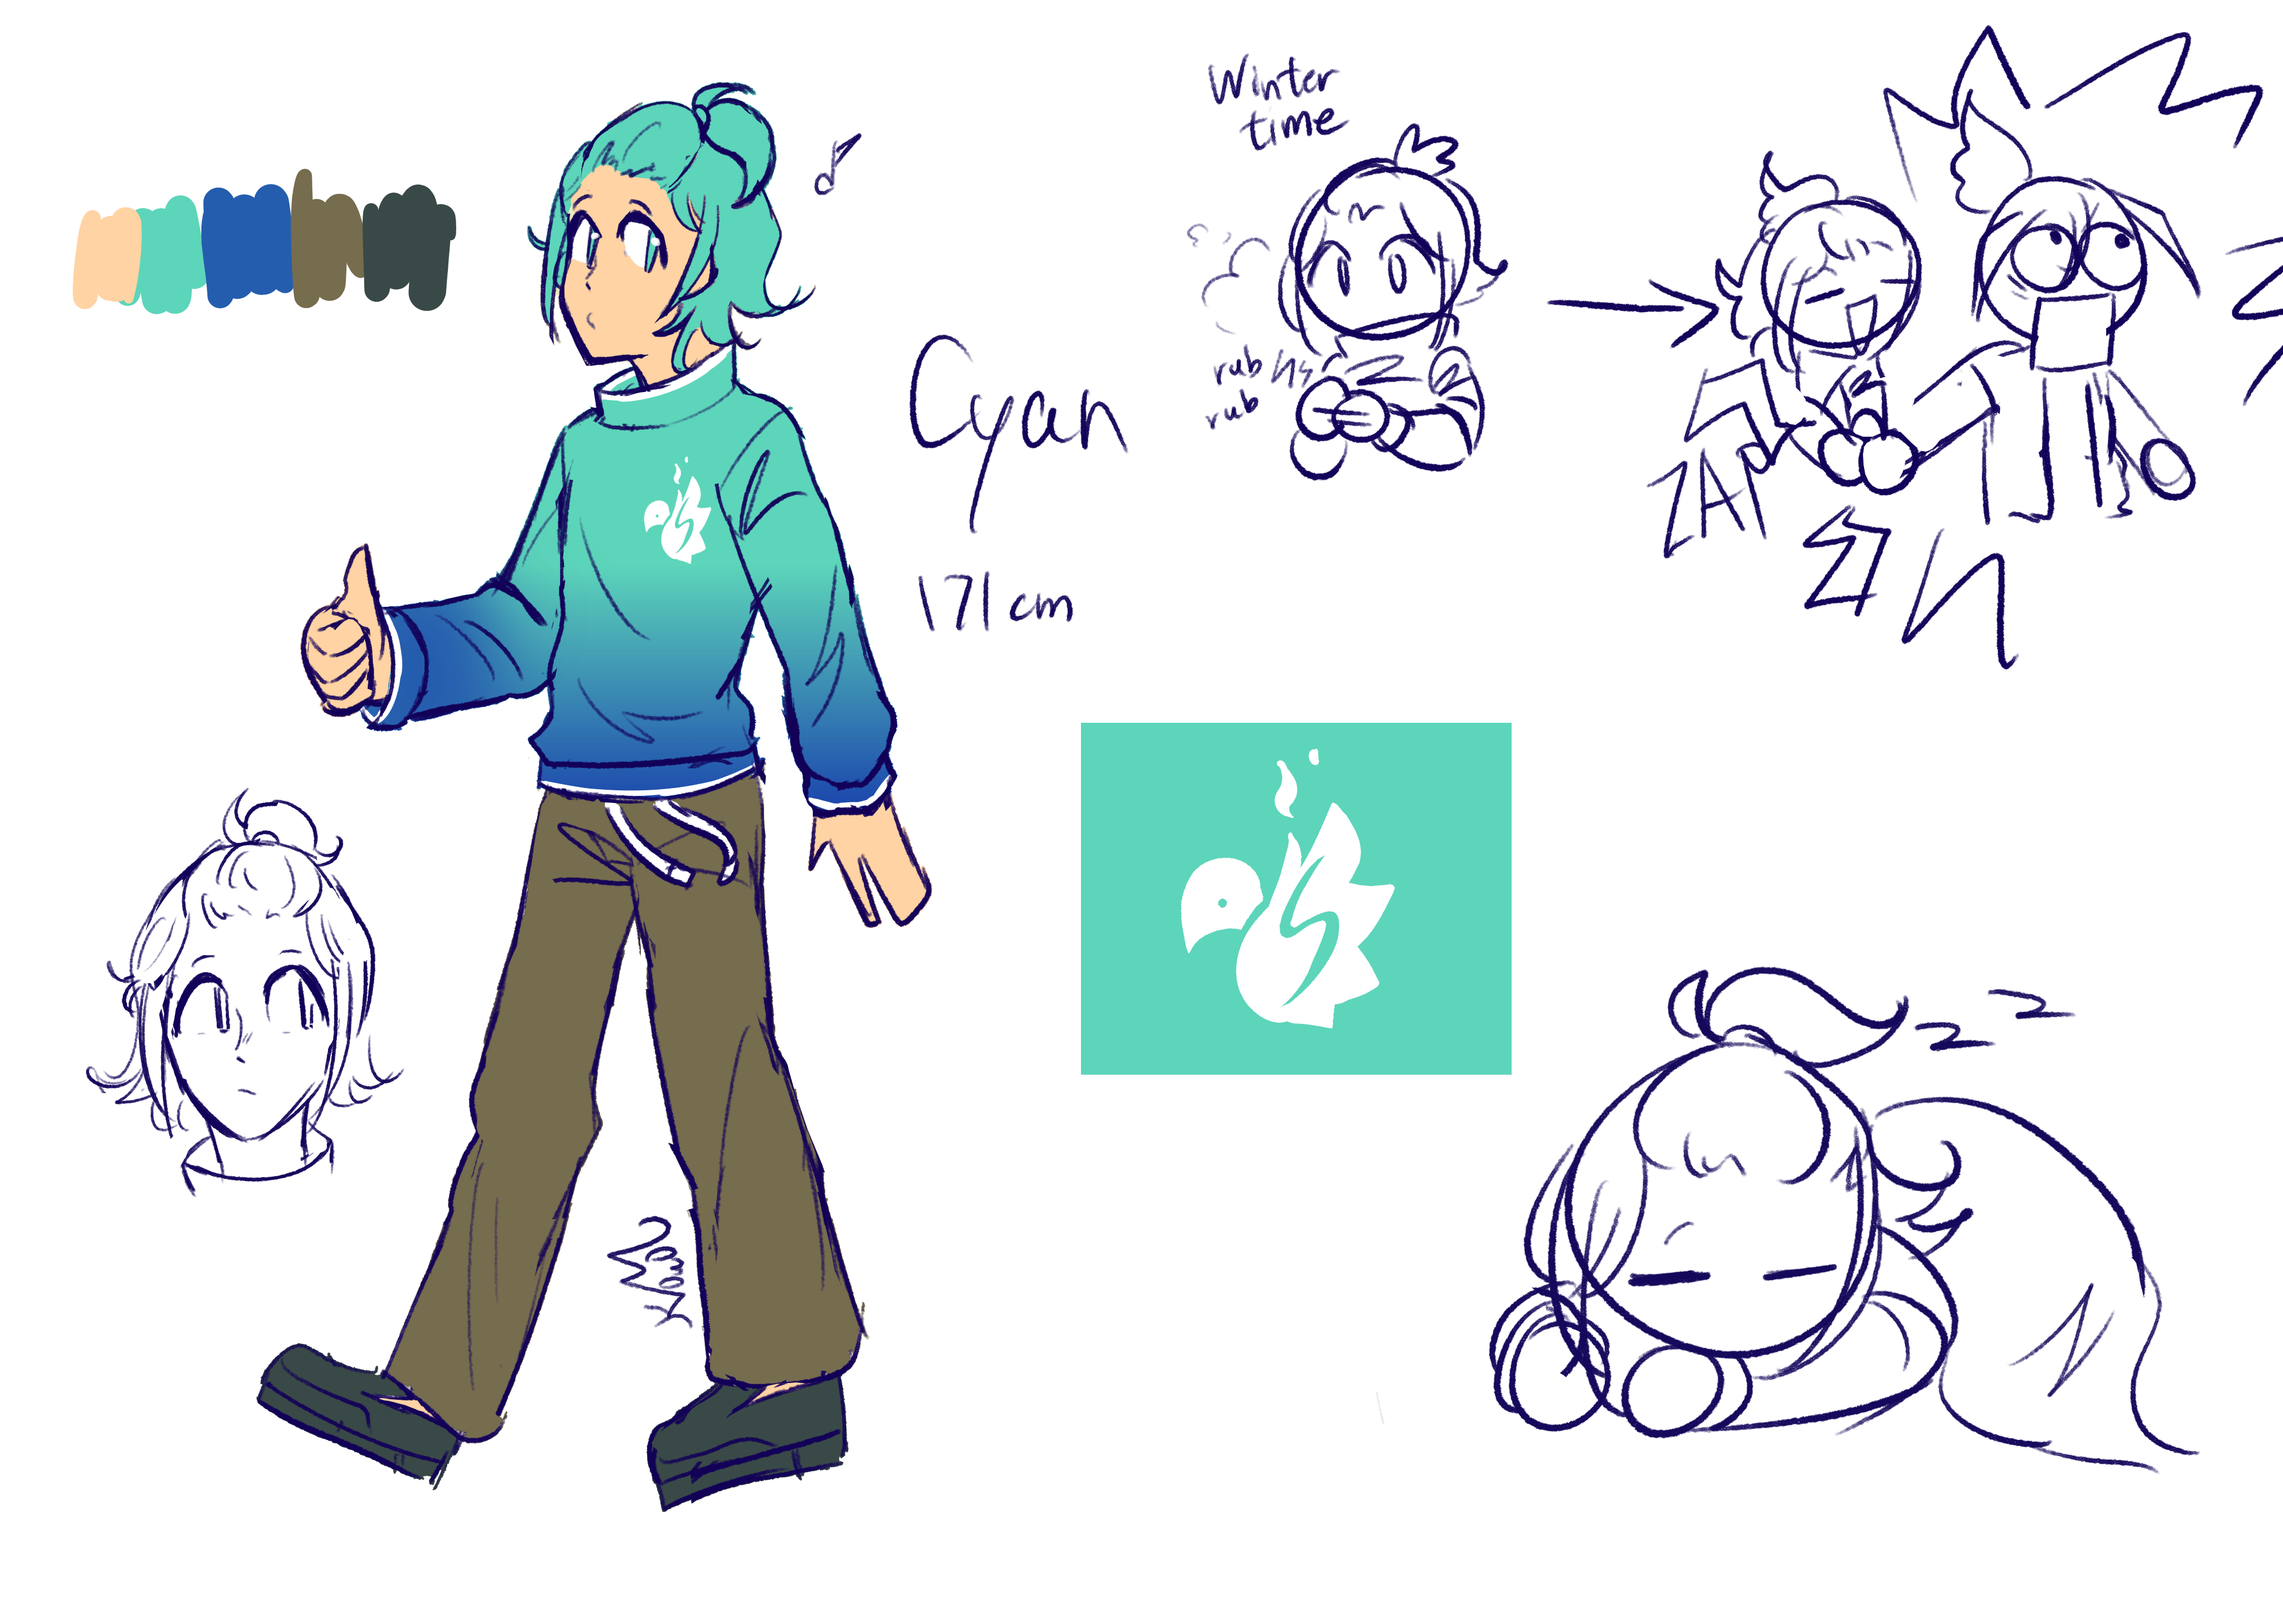
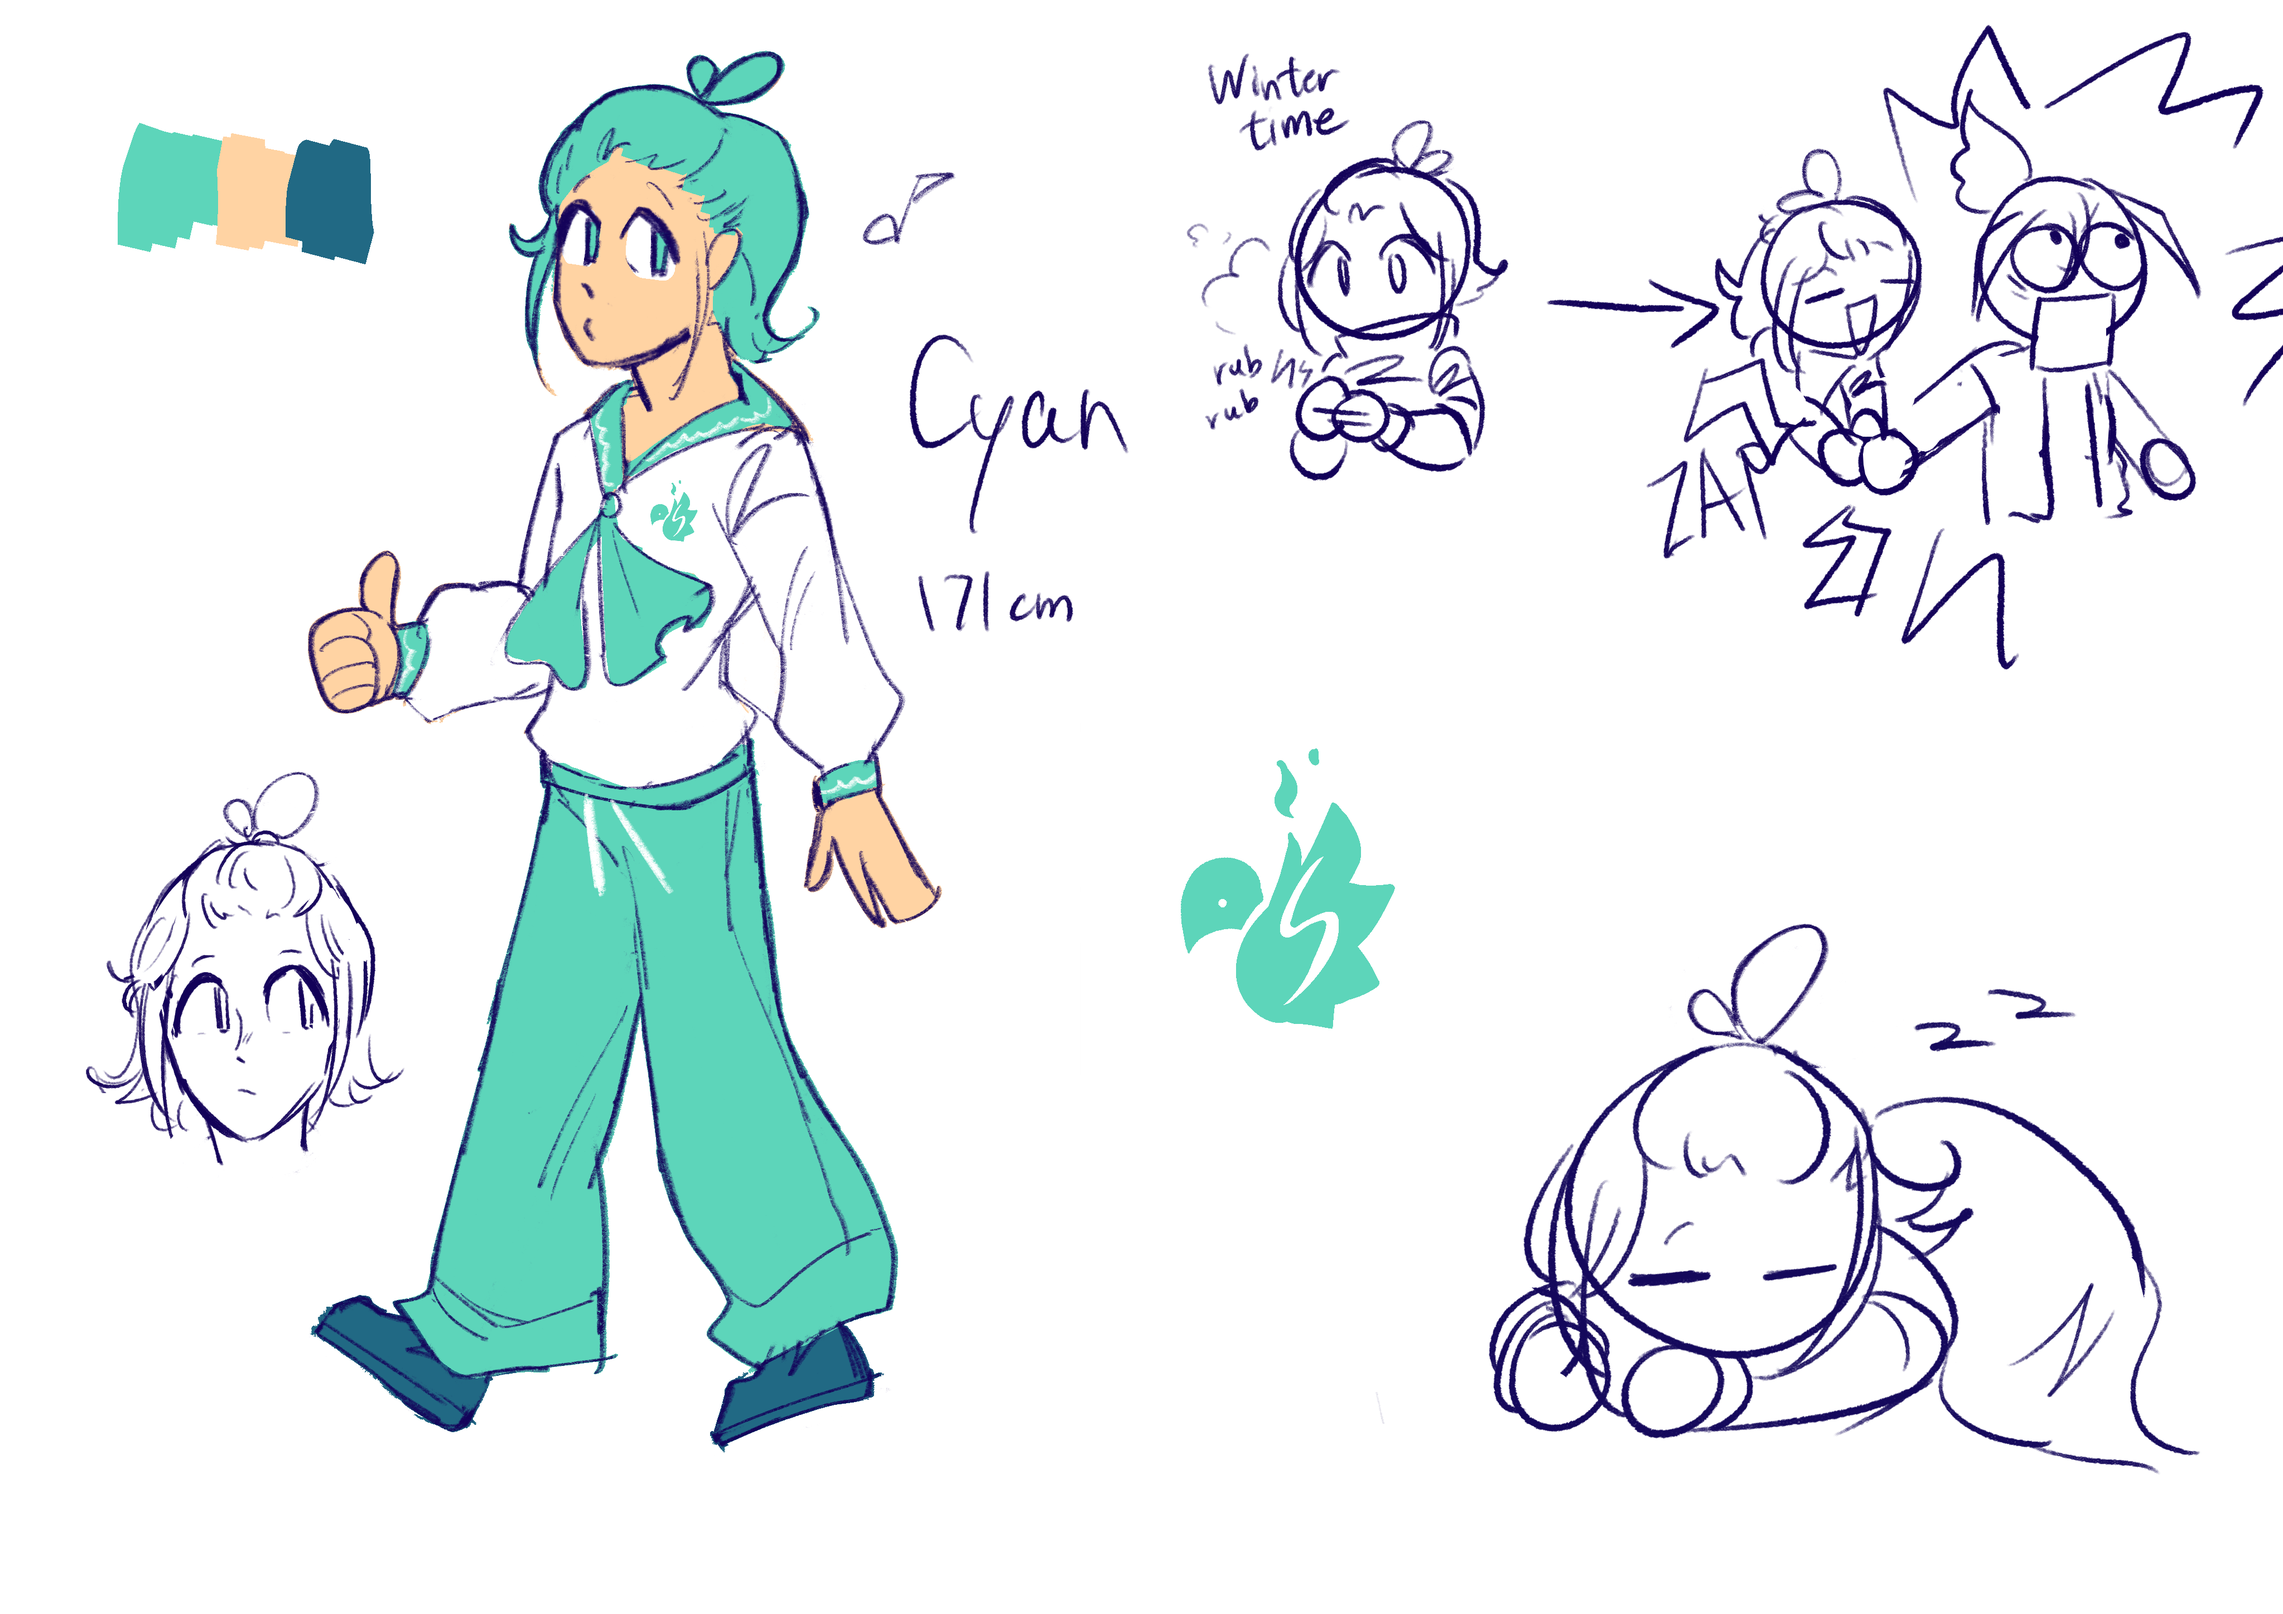
Cyan redesign

diff --git a/public/updatelog/index.html b/public/updatelog/index.html
@@ -1,1 +1,1 @@
-<!doctype html><html><head><meta charset="UTF-8"><meta name="viewport" content="width=device-width,initial-scale=1"><title>KiwiMeowo's History</title><link rel="icon" type="image/x-icon" href="/favicon.ico?"><link href="/style.css" rel="stylesheet" type="text/css" media="all"><link href="/emote.css" rel="stylesheet" type="text/css" media="all"><link href="/style-my-tooltips.css" rel="stylesheet" type="text/css"><script src="http://ajax.googleapis.com/ajax/libs/jquery/1.7/jquery.min.js"></script><script src="/jquery.style-my-tooltips.js"></script></head><style>:root{--star:linear-gradient(#130F47,#592991)}.blognav{position:fixed;z-index:99;width:100%;background:rgb(15 14 49 / 50%);bottom:0;padding:10px 0;display:flex;justify-content:space-around}.blognav a,.blognav span:not(a span){filter:var(--dropshadow);display:inline-block;padding:3px 6px}.blognav span:not(a span){color:var(--yellow)}.blognav a{background:var(--yellow);filter:var(--dropshadow);border-radius:5px;color:var(--blue);text-decoration-color:var(--blue)}.blognav a span{border-radius:5px;padding:0 7.5px;filter:var(--dropshadow);background:linear-gradient(135deg,var(--gradient1),var(--gradient2))}.blognav a:focus,.blognav a:hover{background:#bcb9d6de;transition:background .5s;translate:var(--down);filter:var(--dropshadowdown)}</style><body><nav><a href="/sitemap.html" style="--svg:url(/assets/map.svg)"></a> <a href="/index.html" style="--svg:url(/assets/home.svg)"></a></nav><div class="blognav"><span>⇤ First</span> <span>⭠ Previous</span> <a href="/updatelog/page-2.html"><span>Next ⭢</span></a> <a href="/updatelog/page-5.html"><span>Last ⇥</span></a></div><main><section class="wide"><article><h1>Update Log</h1><div class="inner min"><ul><li>Added new OC <a href="oc/UtSS/Blossom/index.html">Blossom</a>!</li><p class="date">( 13 Sep 2026 )</p></ul><hr><ul><li>Added new clothing ArtExplorer to dress up game!</li><li>Added hide clothing system to avoid clutter!</li><p class="date">( 6 Sep 2026 )</p></ul><hr><ul><li>Added meme tag in art gallery</li><li>Added tag system from 2023-2026</li><li>Removed Meme page because it would be redundant</li><p class="date">( 29 Aug 2026 )</p></ul><hr><ul><li>Some art tag system organising!</li><p class="date">( 15 Aug 2026 )</p></ul><hr><ul><li>Added a <a href="/oc/UtSS/story/An_Old_Letter.html">new story regarding Mira</a></li><li>Updated UtSS and Dreamland Workshop lore a bit</li><p class="date">( 14 Aug 2026 )</p></ul><hr><ul><li>I now use Google Sheets for my Pic Feed instead of BlueSky!</li><li>I now use pagination in 11ty to generate my updatelog pages</li><p class="date">( 14 Jul 2026 )</p></ul><hr><ul><li>Added <a href="oc/other/Carnelian/index.html">Carenlian</a> to my OC page</li><p class="date">( 6 Jul 2026 )</p></ul><hr></div></article></section></main></body></html>
+<!doctype html><html><head><meta charset="UTF-8"><meta name="viewport" content="width=device-width,initial-scale=1"><title>KiwiMeowo's History</title><link rel="icon" type="image/x-icon" href="/favicon.ico?"><link href="/style.css" rel="stylesheet" type="text/css" media="all"><link href="/emote.css" rel="stylesheet" type="text/css" media="all"><link href="/style-my-tooltips.css" rel="stylesheet" type="text/css"><script src="http://ajax.googleapis.com/ajax/libs/jquery/1.7/jquery.min.js"></script><script src="/jquery.style-my-tooltips.js"></script></head><style>:root{--star:linear-gradient(#130F47,#592991)}.blognav{position:fixed;z-index:99;width:100%;background:rgb(15 14 49 / 50%);bottom:0;padding:10px 0;display:flex;justify-content:space-around}.blognav a,.blognav span:not(a span){filter:var(--dropshadow);display:inline-block;padding:3px 6px}.blognav span:not(a span){color:var(--yellow)}.blognav a{background:var(--yellow);filter:var(--dropshadow);border-radius:5px;color:var(--blue);text-decoration-color:var(--blue)}.blognav a span{border-radius:5px;padding:0 7.5px;filter:var(--dropshadow);background:linear-gradient(135deg,var(--gradient1),var(--gradient2))}.blognav a:focus,.blognav a:hover{background:#bcb9d6de;transition:background .5s;translate:var(--down);filter:var(--dropshadowdown)}</style><body><nav><a href="/sitemap.html" style="--svg:url(/assets/map.svg)"></a> <a href="/index.html" style="--svg:url(/assets/home.svg)"></a></nav><div class="blognav"><span>⇤ First</span> <span>⭠ Previous</span> <a href="/updatelog/page-2.html"><span>Next ⭢</span></a> <a href="/updatelog/page-5.html"><span>Last ⇥</span></a></div><main><section class="wide"><article><h1>Update Log</h1><div class="inner min"><ul><li>Added new OC <a href="oc/UtSS/Blossom/index.html">Blossom</a>!</li><li>Redesigned Cyan. man I hated their old design</li><p class="date">( 13 Sep 2026 )</p></ul><hr><ul><li>Added new clothing ArtExplorer to dress up game!</li><li>Added hide clothing system to avoid clutter!</li><p class="date">( 6 Sep 2026 )</p></ul><hr><ul><li>Added meme tag in art gallery</li><li>Added tag system from 2023-2026</li><li>Removed Meme page because it would be redundant</li><p class="date">( 29 Aug 2026 )</p></ul><hr><ul><li>Some art tag system organising!</li><p class="date">( 15 Aug 2026 )</p></ul><hr><ul><li>Added a <a href="/oc/UtSS/story/An_Old_Letter.html">new story regarding Mira</a></li><li>Updated UtSS and Dreamland Workshop lore a bit</li><p class="date">( 14 Aug 2026 )</p></ul><hr><ul><li>I now use Google Sheets for my Pic Feed instead of BlueSky!</li><li>I now use pagination in 11ty to generate my updatelog pages</li><p class="date">( 14 Jul 2026 )</p></ul><hr><ul><li>Added <a href="oc/other/Carnelian/index.html">Carenlian</a> to my OC page</li><p class="date">( 6 Jul 2026 )</p></ul><hr></div></article></section></main></body></html>

diff --git a/templates/updatelog/index.html b/templates/updatelog/index.html
@@ -3,7 +3,7 @@ layout: UpdateLog.njk
 sample:
   - {'infos':['text'],'date':'xx xxx 2026'}
 logs: 
-  - {'infos':['Added new OC <a href="oc/UtSS/Blossom/index.html">Blossom</a>!'],'date':'13 Sep 2026'}
+  - {'infos':['Added new OC <a href="oc/UtSS/Blossom/index.html">Blossom</a>!','Redesigned Cyan. man I hated their old design'],'date':'13 Sep 2026'}
   - {'infos':['Added new clothing ArtExplorer to dress up game!','Added hide clothing system to avoid clutter!'],'date':'6 Sep 2026'}
   - {'infos':['Added meme tag in art gallery','Added tag system from 2023-2026','Removed Meme page because it would be redundant'],'date':'29 Aug 2026'}
   - {'infos':['Some art tag system organising!'],'date':'15 Aug 2026'}
